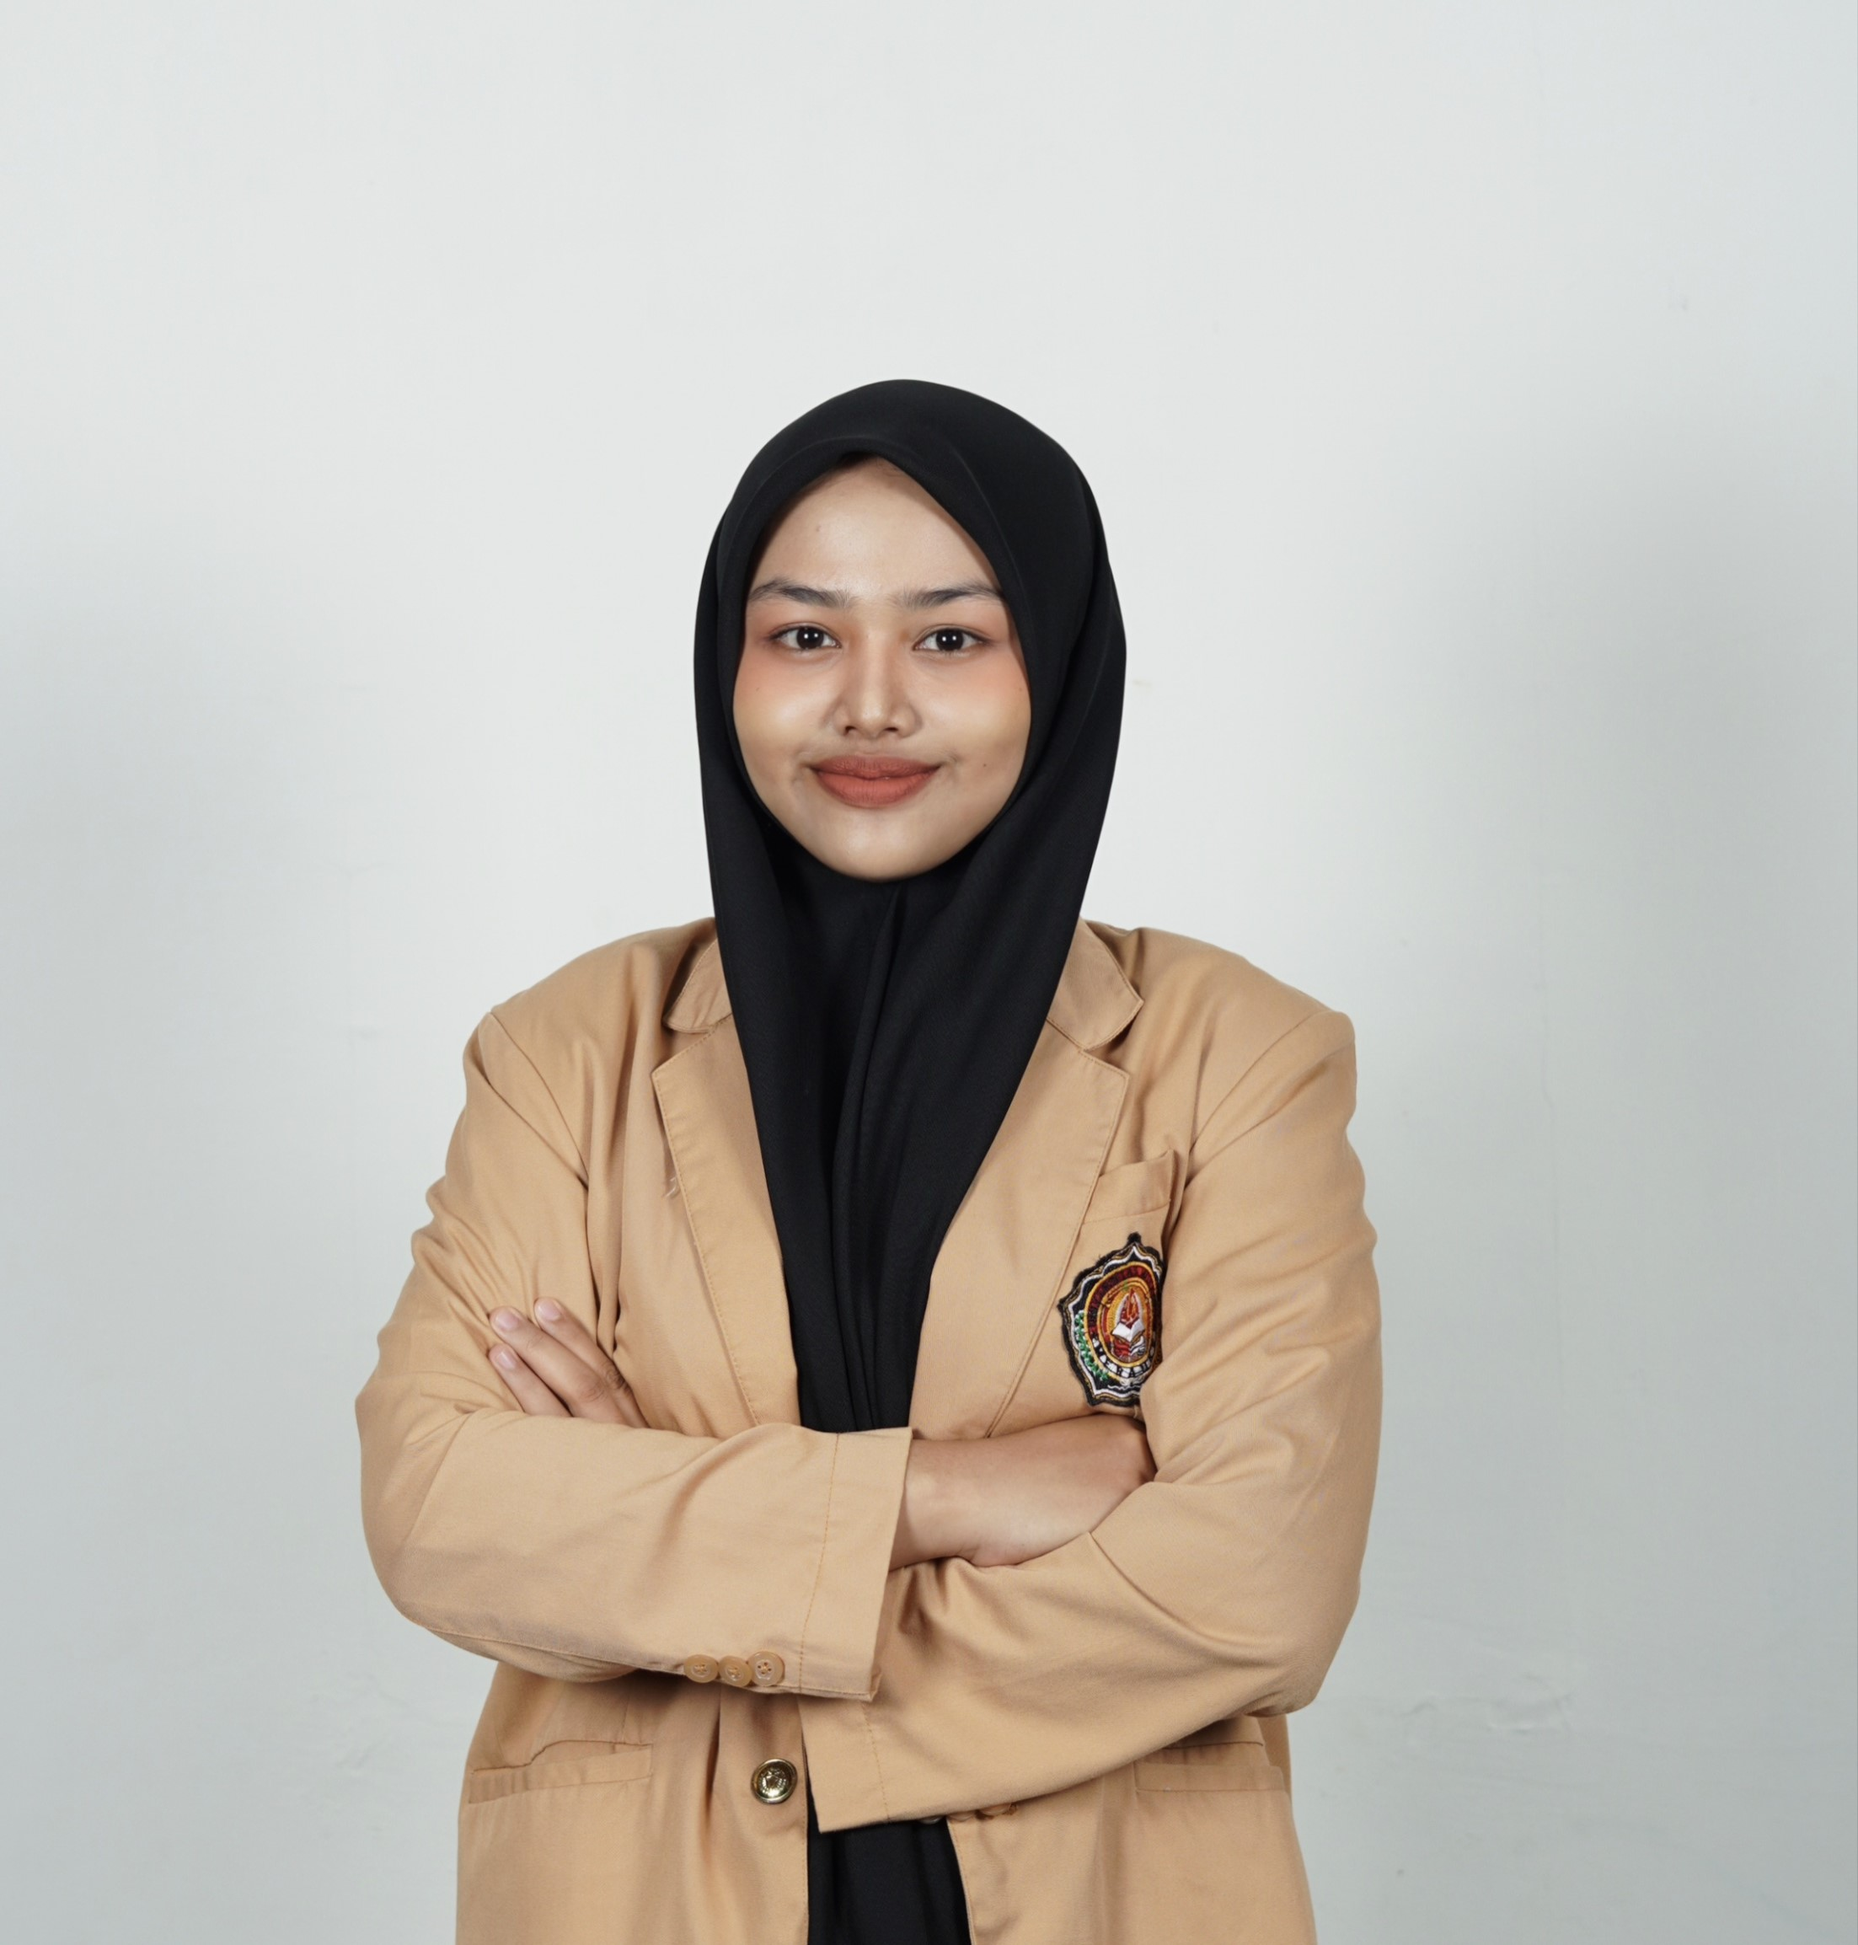
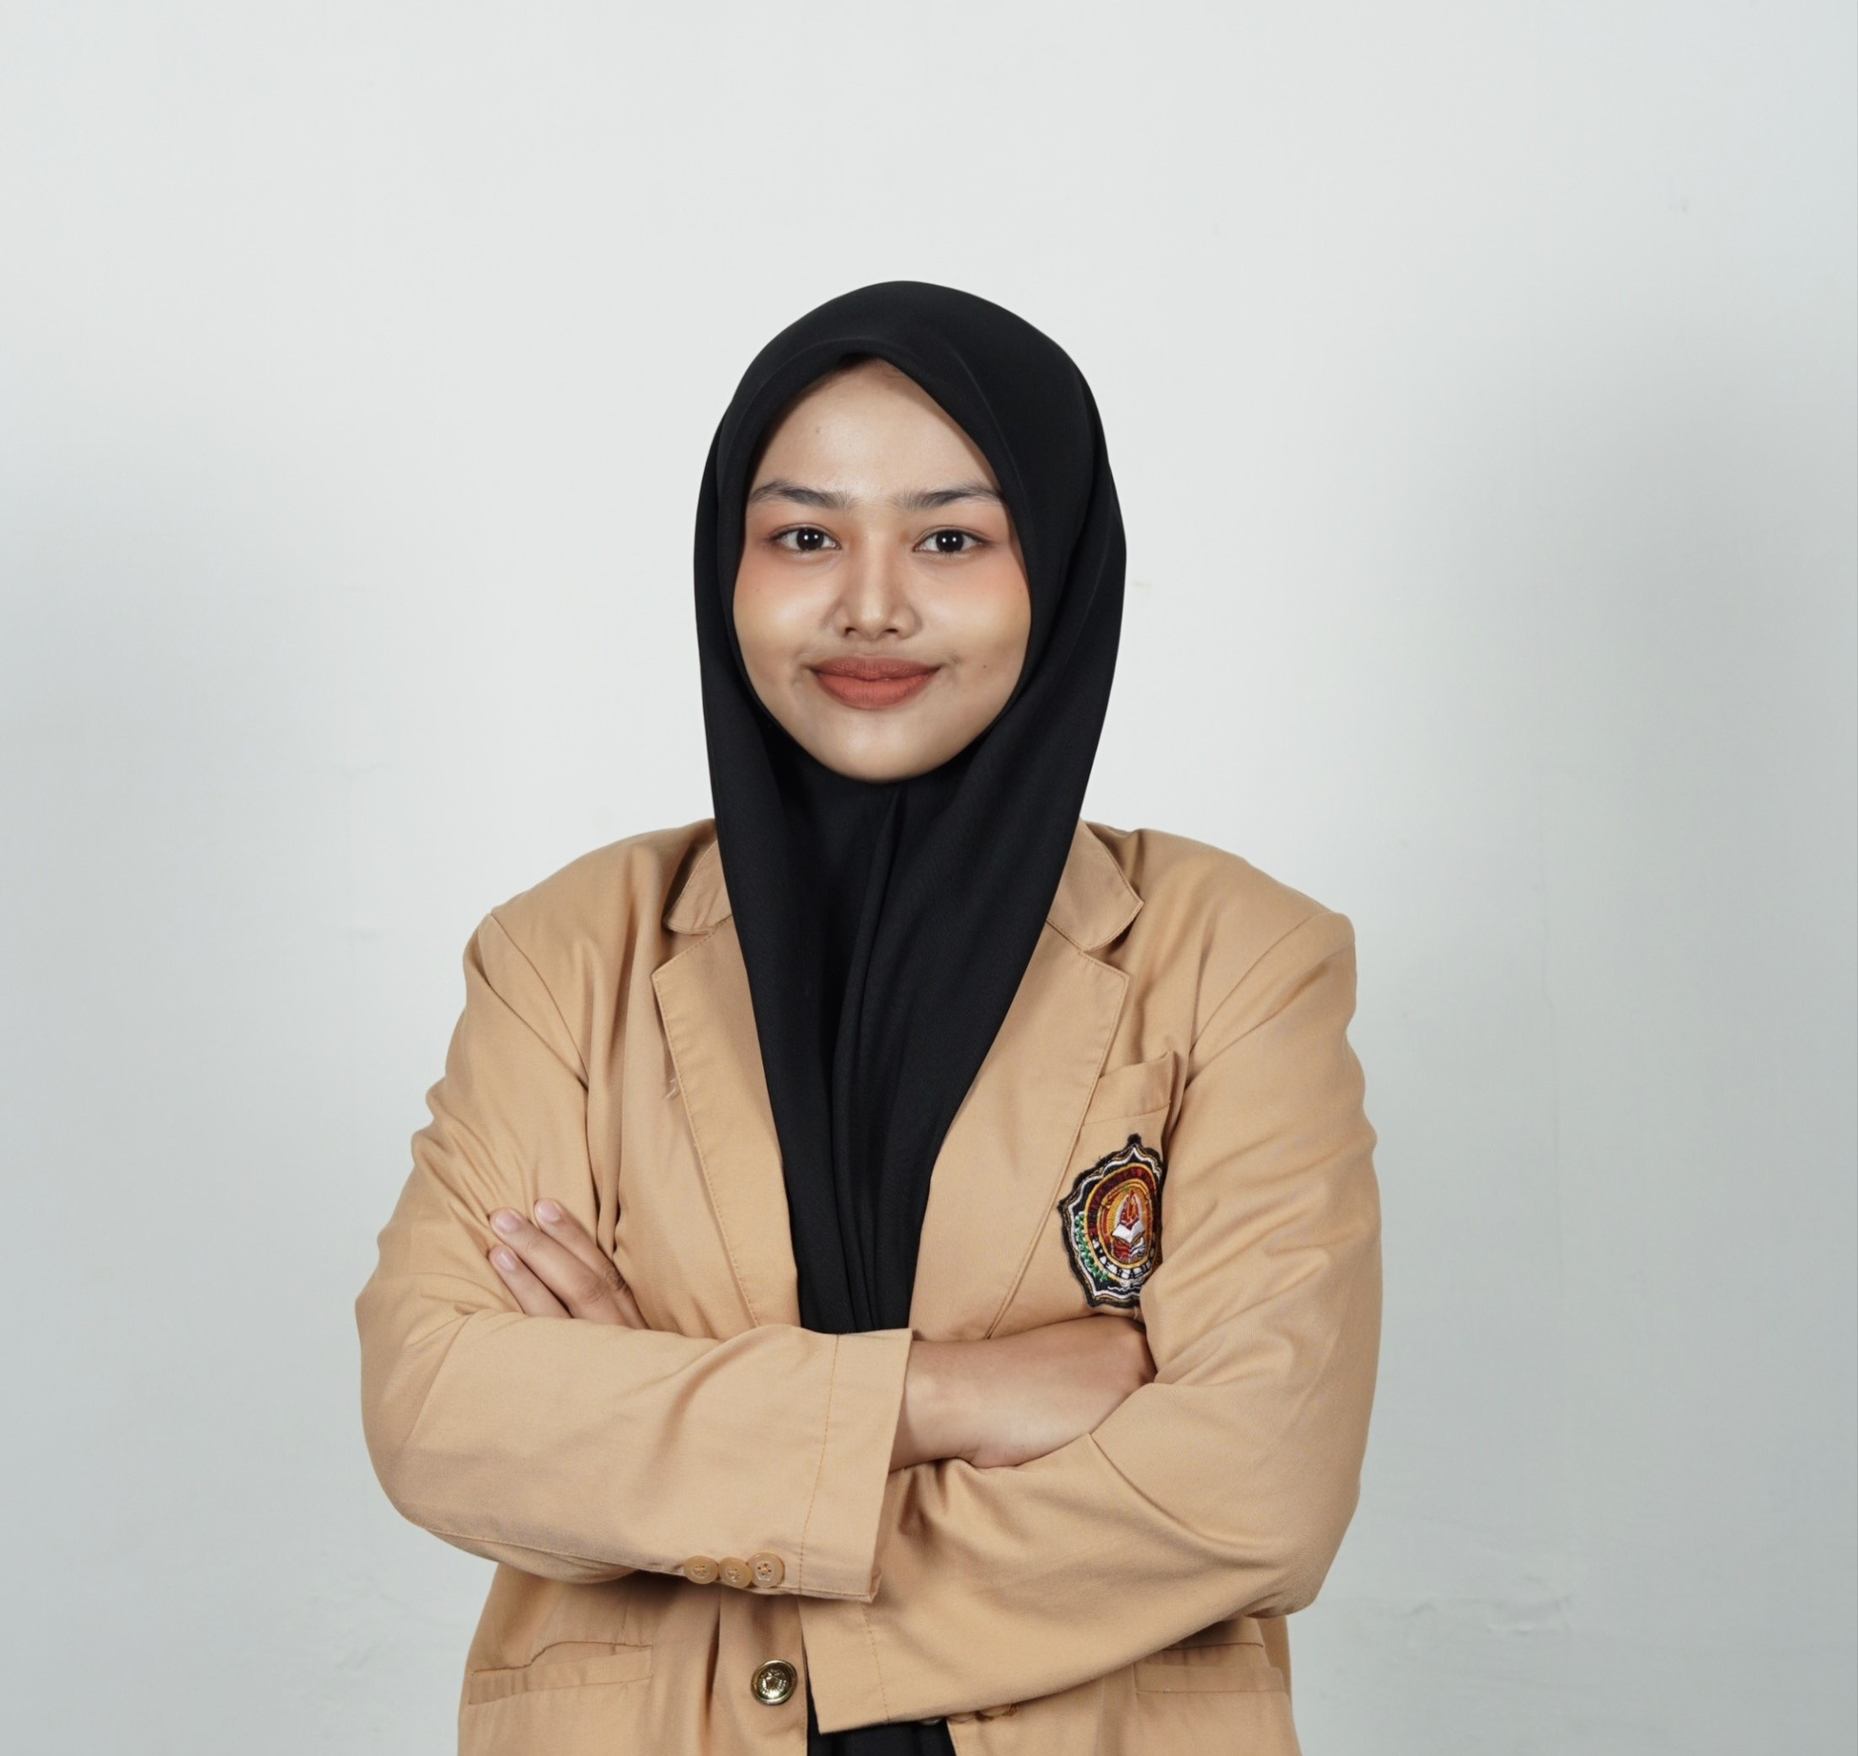
foto baru

diff --git a/index.html b/index.html
@@ -95,7 +95,7 @@
 
             <div class="row justify-content-center mt-5">
                 <div class="col-sm-3">
-                    <div class="card">
+                    <div class="card shadow-lg border-0">
                         <div class="card-body">
                             <h5 class="card-title">DATA ANALIST</h5>
                             <p class="card-text">I have a strong interest in data analysis, focusing on extracting insights to support decision-making.
@@ -105,7 +105,7 @@
                     </div>
                 </div>
                 <div class="col-sm-3">
-                    <div class="card">
+                    <div class="card shadow-lg border-0">
                         <div class="card-body">
                             <h5 class="card-title">MACHINE LEARNING</h5>
                             <p class="card-text">I'm passionate about machine learning, with a focus on building and optimizing models to solve complex problems.
@@ -115,7 +115,7 @@
                     </div>
                 </div>
                 <div class="col-sm-3">
-                    <div class="card">
+                    <div class="card shadow-lg border-0">
                         <div class="card-body">
                             <h5 class="card-title">SOFTWARE ENGINEER</h5>
                             <p class="card-text">I am passionate about software engineering, focusing on building efficient and scalable solutions.
@@ -241,21 +241,21 @@
                         <div class="carousel-item active">
                             <img src="img/acievement/diesnatalis.jpg" class="d-block w-100 h-100" alt="...">
                             <div class="carousel-caption d-none d-md-block">
-                                <h5>First slide label</h5>
-                                <p>Some representative placeholder content for the first slide.</p>
+                                <h5>Mahasiswa Berprestasi</h5>
+                                <p>Berhasil Menjadi Mapres pada tahun 2023</p>
                             </div>
                         </div>
                         <div class="carousel-item">
                             <img src="img/magang/cs.png" class="d-block w-100 h-100" alt="...">
                             <div class="carousel-caption d-none d-md-block">
-                                <h5>Second slide label</h5>
-                                <p>Some representative placeholder content for the second slide.</p>
+                                <h5>Papua Maluku Digital Bootcamp</h5>
+                                <p>Mengikuti program magang di Telkomsel</p>
                             </div>
                         </div>
                         <div class="carousel-item">
-                            <img src="img/magang/hasil-magang.png" class="d-block w-100 h-100" alt="...">
+                            <img src="img/kegiatan/pmm4_1.jpg" class="d-block w-100 h-100" alt="...">
                             <div class="carousel-caption d-none d-md-block">
-                                <h5>Third slide label</h5>
+                                <h5>PMM 4</h5>
                                 <p>Some representative placeholder content for the third slide.</p>
                             </div>
                         </div>
@@ -351,20 +351,18 @@
                 <div class="col-lg-4 mb-5 mb-lg-0">
                     <h4 class="text-uppercase mb-4">Location</h4>
                     <p class="lead mb-0">
-                        99612
-                        <br />
                         Merauke, Papua Selatan
+                        <br />
+                        Kode Pos 99612
                     </p>
                 </div>
                 <!-- Footer Social Icons-->
                 <div class="col-lg-4 mb-5 mb-lg-0">
                     <h4 class="text-uppercase mb-4">Around the Web</h4>
-                    <a class="btn btn-outline-light btn-social mx-1" href="#!"><i
-                            class="fab fa-fw fa-facebook-f"></i></a>
                     <a class="btn btn-outline-light btn-social mx-1" href="https://www.instagram.com/aloutvbs?igsh=a3c0Z3d5NDk2Mnlw"><i class="fab fa-fw fa-instagram"></i></a>
                     <a class="btn btn-outline-light btn-social mx-1" href="https://www.linkedin.com/in/alyaaurora/"><i
                             class="fab fa-fw fa-linkedin-in"></i></a>
-                    <a class="btn btn-outline-light btn-social mx-1" href="#!"><i class="fab fa-fw fa-github"></i></a>
+                    <a class="btn btn-outline-light btn-social mx-1" href="https://github.com/aloutvbs"><i class="fab fa-fw fa-github"></i></a>
                 </div>
                 <!-- Footer About Text-->
                 <div class="col-lg-4">
@@ -372,7 +370,6 @@
                     <p class="lead mb-0">
                         Freelance is a free to use, Download CV below
                         <a href="https://drive.google.com/file/d/1LNz1pITru3kTTfTva2d2mzbXEZb3Z7ob/view?usp=drive_link">Curiculum Vinte</a>
-                        .
                     </p>
                 </div>
             </div>
